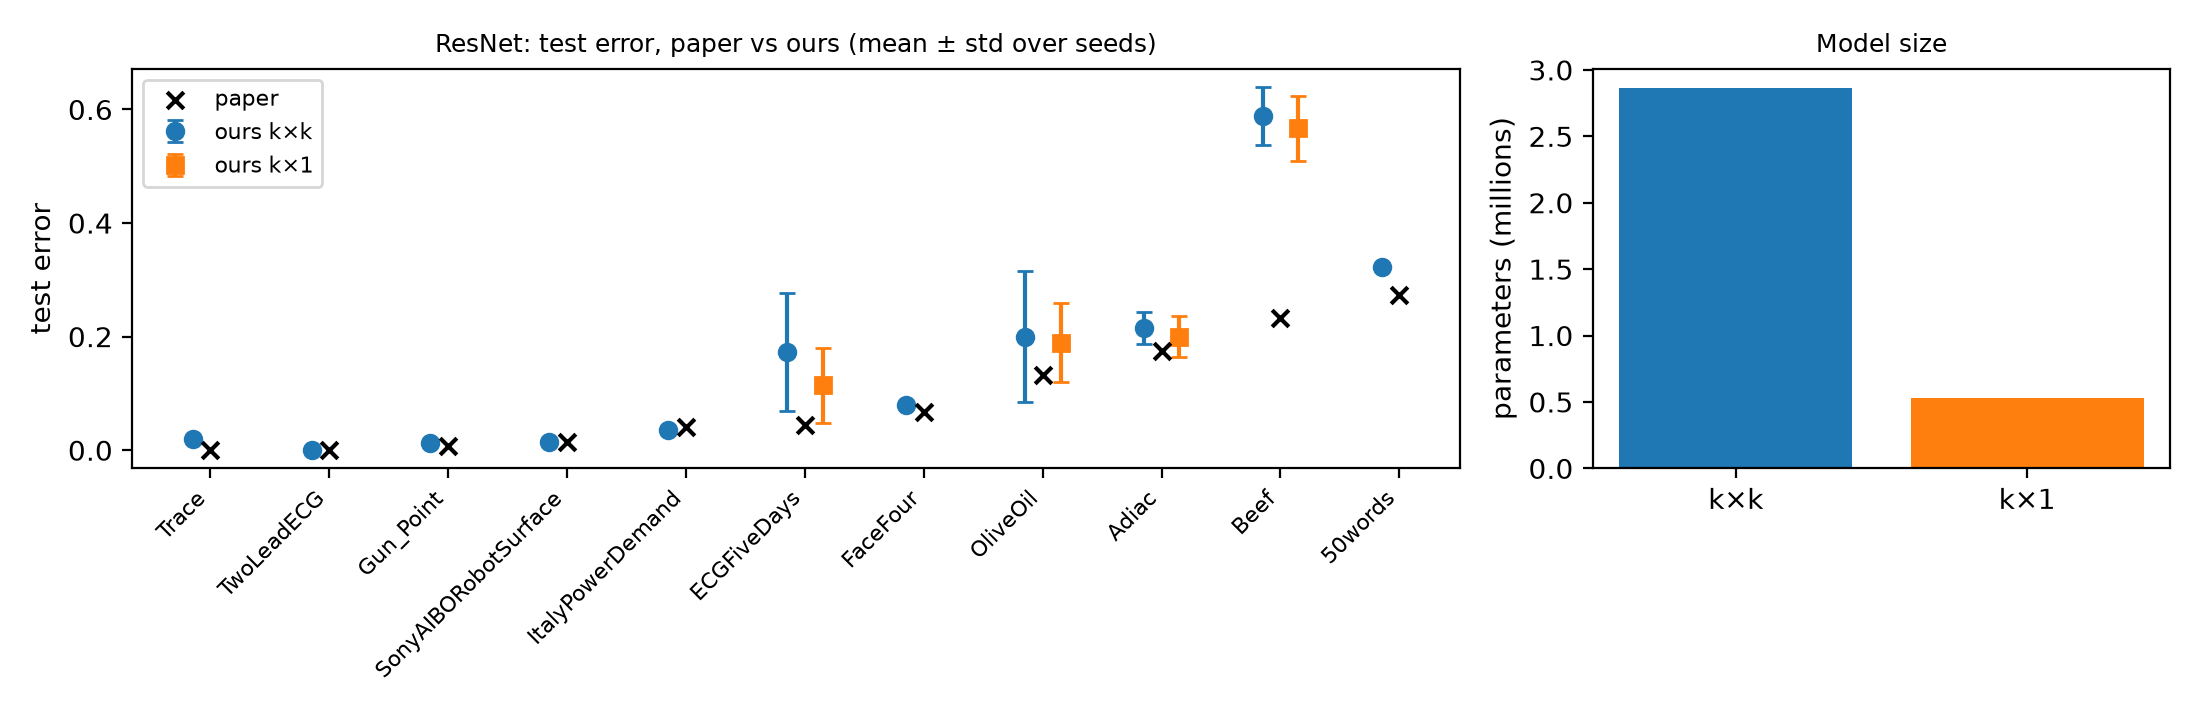
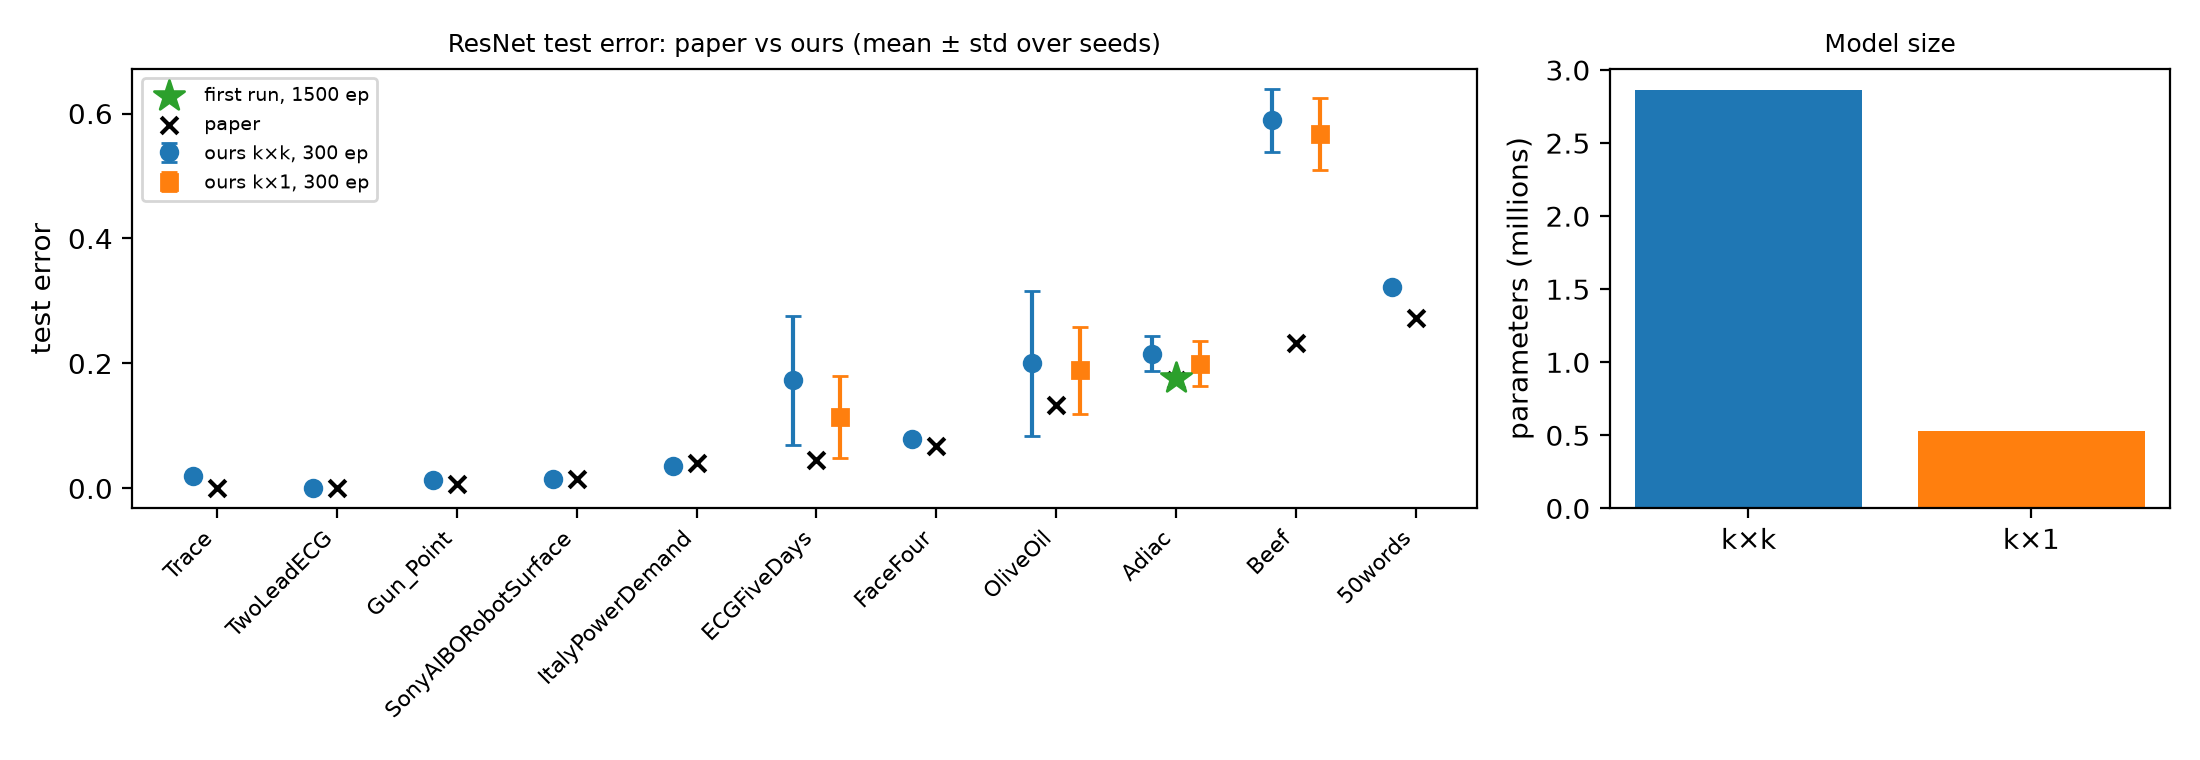
Add first-run result to ResNet tables, figure, notes and README

diff --git a/scripts/make_tables.py b/scripts/make_tables.py
@@ -1,25 +1,30 @@
-import os
 import numpy as np
 import pandas as pd
 
-df = pd.read_csv("results/resnet_runs.csv")
-df = df[(df.epochs == 300) & (~df.fixed_labels)]
+runs = pd.read_csv("results/resnet_runs.csv")
+runs = runs[(runs.epochs == 300) & (~runs.fixed_labels)]
+first = pd.read_csv("results/first_run.csv").set_index("dataset")
 
 def n_test(ds):
     with open(f"data/UCR_TS_Archive_2015/{ds}/{ds}_TEST") as f:
         return sum(1 for _ in f)
 
 rows = []
-for ds, g in df.groupby("dataset"):
+for ds, g in runs.groupby("dataset"):
     paper = g.paper_error.iloc[0]
-    row = {"dataset": ds, "test_series": n_test(ds), "paper": paper}
+    n = n_test(ds)
+    r = {"dataset": ds, "test_series": n, "paper": paper,
+         "first_run": first.test_error.get(ds, np.nan)}
     for name, flag in [("base", False), ("1d", True)]:
         s = g[g.kernel1d == flag].test_error
-        row[f"{name}_n"] = len(s)
-        row[f"{name}_mean"] = s.mean() if len(s) else np.nan
-        row[f"{name}_std"] = s.std() if len(s) > 1 else np.nan
-    row["gap_series"] = (row["base_mean"] - paper) * row["test_series"]
-    rows.append(row)
+        r[f"{name}_n"] = len(s)
+        r[f"{name}_mean"] = s.mean() if len(s) else np.nan
+        r[f"{name}_std"] = s.std() if len(s) > 1 else np.nan
+    # a dataset "matches" if any of our results is within 2 test series of the paper
+    cands = [v for v in (r["first_run"], r["base_mean"]) if not np.isnan(v)]
+    r["gap_series"] = (r["base_mean"] - paper) * n
+    r["matched_within_2_series"] = any(abs(v - paper) * n <= 2 for v in cands)
+    rows.append(r)
 
 t = pd.DataFrame(rows).round(4)
 t.to_csv("results/resnet_paper_vs_ours.csv", index=False)
@@ -29,11 +34,14 @@ def cell(m, s, n):
         return "-"
     return f"{m:.3f}" + (f" ± {s:.3f}" if n > 1 else "") + f" (n={n})"
 
-lines = ["| Dataset | Test series | Paper | Ours k×k (300 ep) | Ours k×1 (300 ep) | Gap k×k vs paper (series) |",
-         "|---|---|---|---|---|---|"]
+lines = ["| Dataset | Test series | Paper | First run (1500 ep) | Ours k×k (300 ep) | Ours k×1 (300 ep) | Gap k×k vs paper (series) | Within 2 series |",
+         "|---|---|---|---|---|---|---|---|"]
 for _, r in t.iterrows():
-    lines.append(f"| {r.dataset} | {int(r.test_series)} | {r.paper:.3f} | "
+    fr = "-" if np.isnan(r.first_run) else f"{r.first_run:.4f}"
+    lines.append(f"| {r.dataset} | {int(r.test_series)} | {r.paper:.3f} | {fr} | "
                  f"{cell(r.base_mean, r.base_std, int(r.base_n))} | "
-                 f"{cell(r['1d_mean'], r['1d_std'], int(r['1d_n']))} | {r.gap_series:+.0f} |")
+                 f"{cell(r['1d_mean'], r['1d_std'], int(r['1d_n']))} | {r.gap_series:+.0f} | "
+                 f"{'yes' if r.matched_within_2_series else 'no'} |")
 open("results/resnet_paper_vs_ours.md", "w").write("\n".join(lines) + "\n")
 print("\n".join(lines))
+print("\nmatched within 2 test series:", ", ".join(t[t.matched_within_2_series].dataset))

diff --git a/scripts/make_figure.py b/scripts/make_figure.py
@@ -4,21 +4,25 @@ import matplotlib
 matplotlib.use("Agg")
 import matplotlib.pyplot as plt
 
-t = pd.read_csv("results/resnet_paper_vs_ours.csv").dropna(subset=["base_mean"])
-t = t[t.base_n >= 1].sort_values("paper")
-x = np.arange(len(t))
-fig, ax = plt.subplots(1, 2, figsize=(11, 3.6), gridspec_kw={"width_ratios": [2.3, 1]})
+t = pd.read_csv("results/resnet_paper_vs_ours.csv").sort_values("paper").reset_index(drop=True)
+pos = {d: i for i, d in enumerate(t.dataset)}
+fig, ax = plt.subplots(1, 2, figsize=(11, 3.8), gridspec_kw={"width_ratios": [2.4, 1]})
 
-ax[0].errorbar(x - 0.15, t.base_mean, yerr=t.base_std.fillna(0), fmt="o", capsize=3, label="ours k×k")
-d = t.dropna(subset=["1d_mean"])
-ax[0].errorbar(np.searchsorted(t.dataset.values, d.dataset.values) * 0 + [list(t.dataset).index(n) + 0.15 for n in d.dataset],
-               d["1d_mean"], yerr=d["1d_std"].fillna(0), fmt="s", capsize=3, label="ours k×1")
-ax[0].scatter(x, t.paper, marker="x", color="k", zorder=5, label="paper")
-ax[0].set_xticks(x)
+b = t.dropna(subset=["base_mean"])
+ax[0].errorbar([pos[d] - 0.2 for d in b.dataset], b.base_mean, yerr=b.base_std.fillna(0),
+               fmt="o", capsize=3, label="ours k×k, 300 ep")
+k = t.dropna(subset=["1d_mean"])
+ax[0].errorbar([pos[d] + 0.2 for d in k.dataset], k["1d_mean"], yerr=k["1d_std"].fillna(0),
+               fmt="s", capsize=3, label="ours k×1, 300 ep")
+f = t.dropna(subset=["first_run"])
+ax[0].scatter([pos[d] for d in f.dataset], f.first_run, marker="*", s=130, color="tab:green",
+              zorder=6, label="first run, 1500 ep")
+ax[0].scatter(range(len(t)), t.paper, marker="x", color="k", zorder=5, label="paper")
+ax[0].set_xticks(range(len(t)))
 ax[0].set_xticklabels(t.dataset, rotation=45, ha="right", fontsize=8)
 ax[0].set_ylabel("test error")
-ax[0].legend(fontsize=8)
-ax[0].set_title("ResNet: test error, paper vs ours (mean ± std over seeds)", fontsize=9)
+ax[0].legend(fontsize=7)
+ax[0].set_title("ResNet test error: paper vs ours (mean ± std over seeds)", fontsize=9)
 
 ax[1].bar(["k×k", "k×1"], [2.866, 0.528], color=["tab:blue", "tab:orange"])
 ax[1].set_ylabel("parameters (millions)")

diff --git a/results/resnet_paper_vs_ours.md b/results/resnet_paper_vs_ours.md
@@ -1,13 +1,13 @@
-| Dataset | Test series | Paper | Ours k×k (300 ep) | Ours k×1 (300 ep) | Gap k×k vs paper (series) |
-|---|---|---|---|---|---|
-| 50words | 455 | 0.273 | 0.323 (n=1) | - | +23 |
-| Adiac | 391 | 0.174 | 0.215 ± 0.028 (n=5) | 0.200 ± 0.036 (n=5) | +16 |
-| Beef | 30 | 0.233 | 0.589 ± 0.051 (n=3) | 0.567 ± 0.058 (n=3) | +11 |
-| ECGFiveDays | 861 | 0.045 | 0.173 ± 0.104 (n=3) | 0.114 ± 0.066 (n=3) | +110 |
-| FaceFour | 88 | 0.068 | 0.080 (n=1) | - | +1 |
-| Gun_Point | 150 | 0.007 | 0.013 (n=1) | - | +1 |
-| ItalyPowerDemand | 1029 | 0.040 | 0.036 (n=1) | - | -4 |
-| OliveOil | 30 | 0.133 | 0.200 ± 0.116 (n=3) | 0.189 ± 0.069 (n=3) | +2 |
-| SonyAIBORobotSurface | 601 | 0.015 | 0.015 (n=1) | - | +0 |
-| Trace | 100 | 0.000 | 0.020 (n=1) | - | +2 |
-| TwoLeadECG | 1139 | 0.000 | 0.001 (n=1) | - | +1 |
+| Dataset | Test series | Paper | First run (1500 ep) | Ours k×k (300 ep) | Ours k×1 (300 ep) | Gap k×k vs paper (series) | Within 2 series |
+|---|---|---|---|---|---|---|---|
+| 50words | 455 | 0.273 | - | 0.323 (n=1) | - | +23 | no |
+| Adiac | 391 | 0.174 | 0.1765 | 0.215 ± 0.028 (n=5) | 0.200 ± 0.036 (n=5) | +16 | yes |
+| Beef | 30 | 0.233 | - | 0.589 ± 0.051 (n=3) | 0.567 ± 0.058 (n=3) | +11 | no |
+| ECGFiveDays | 861 | 0.045 | - | 0.173 ± 0.104 (n=3) | 0.114 ± 0.066 (n=3) | +110 | no |
+| FaceFour | 88 | 0.068 | - | 0.080 (n=1) | - | +1 | yes |
+| Gun_Point | 150 | 0.007 | - | 0.013 (n=1) | - | +1 | yes |
+| ItalyPowerDemand | 1029 | 0.040 | - | 0.036 (n=1) | - | -4 | no |
+| OliveOil | 30 | 0.133 | - | 0.200 ± 0.116 (n=3) | 0.189 ± 0.069 (n=3) | +2 | no |
+| SonyAIBORobotSurface | 601 | 0.015 | - | 0.015 (n=1) | - | +0 | yes |
+| Trace | 100 | 0.000 | - | 0.020 (n=1) | - | +2 | yes |
+| TwoLeadECG | 1139 | 0.000 | - | 0.001 (n=1) | - | +1 | yes |

diff --git a/notes.md b/notes.md
@@ -76,3 +76,9 @@
 - Adiac, 5 seeds, 300 epochs: baseline 0.2153 +- 0.0282, 1-D 0.1995 +- 0.0363 (Welch t ~ 0.8: no detectable difference). Paired by seed 0-2: -0.046, +0.008, -0.026.
 - Beef, OliveOil, ECGFiveDays (3 seeds): no detectable difference; 2.6-3.7x faster.
 - Paper's 0.174 lies inside the 1-D spread (2 of 5 seeds at or below 0.1765).
+
+## First result (authors' settings)
+- patched_original/ResNet.py, Adiac, 1500 epochs, one run, TF seed not controlled: test error 0.1765 vs paper 0.174 (1 test series). Train acc 1.0, test loss ~0.89.
+- Controlled follow-up (scripts/run_resnet.py): 5 seeds at 300 epochs -> 0.2153 ± 0.0282 (range 0.18-0.25); 2 seeds at 1500 epochs -> 0.2200 ± 0.0433.
+- Reading: the first run and the paper's value sit at the favourable end of the seed distribution. The match is real, but one run does not establish the expected error.
+- Datasets within 2 test series of the paper (one seed): see results/resnet_paper_vs_ours.md, column "Within 2 series".

diff --git a/README.md b/README.md
@@ -44,6 +44,8 @@ python scripts/make_figure.py
 Every run appends a row to `results/resnet_runs.csv`; the log of each run is in `results/logs/`.
 
 ## Results
+First reproduction run (authors' settings, Adiac, 1500 epochs, one unseeded run): test error 0.1765 vs 0.174 in the paper. Seeded follow-ups show the spread across seeds (Adiac 0.156-0.251), so this agreement is partly luck.
+
 See `results/resnet_paper_vs_ours.md` (paper vs ours) and `results/resnet_figure.png`.
 
 ## Findings
